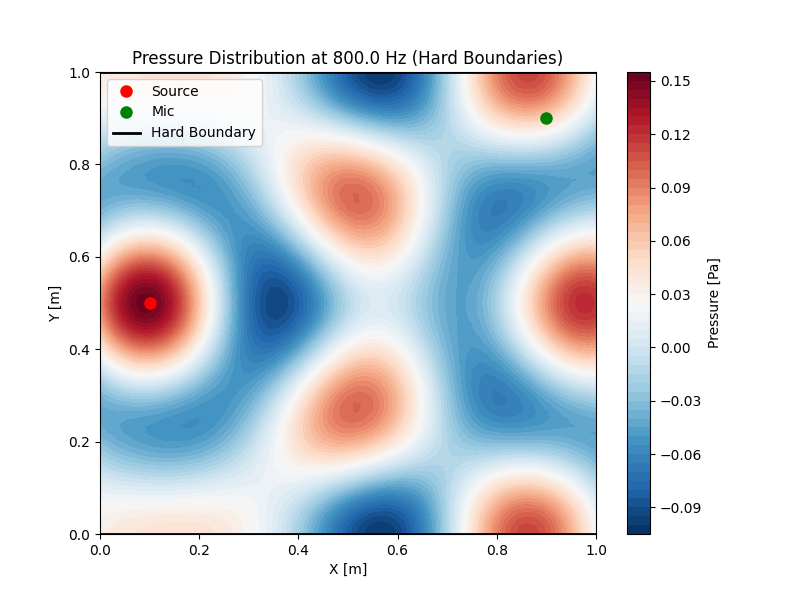
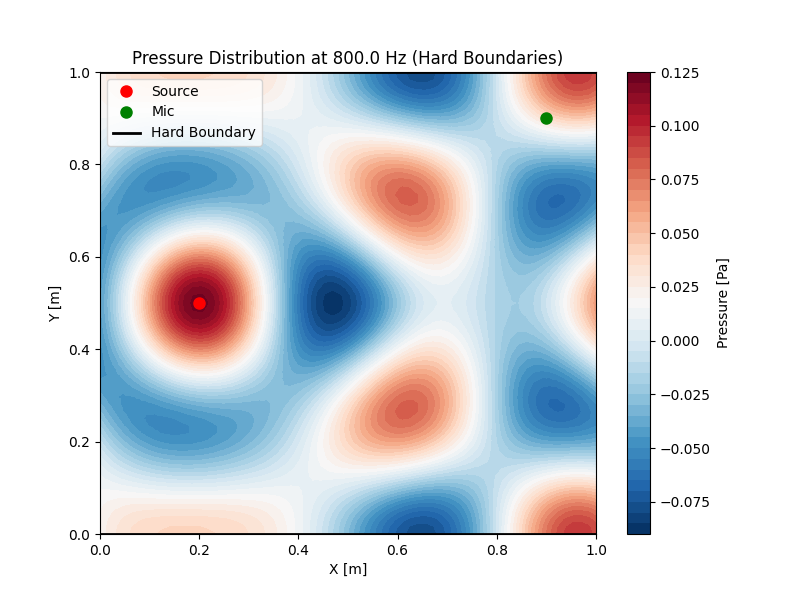
set source to 02

diff --git a/hard_horizontal.py b/hard_horizontal.py
@@ -25,7 +25,7 @@ u = ufl.TrialFunction(V)
 v = ufl.TestFunction(V)
 
 Q = 0.0001
-Sx = 0.1
+Sx = 0.2
 Sy = 0.5
 
 c0 = 340
